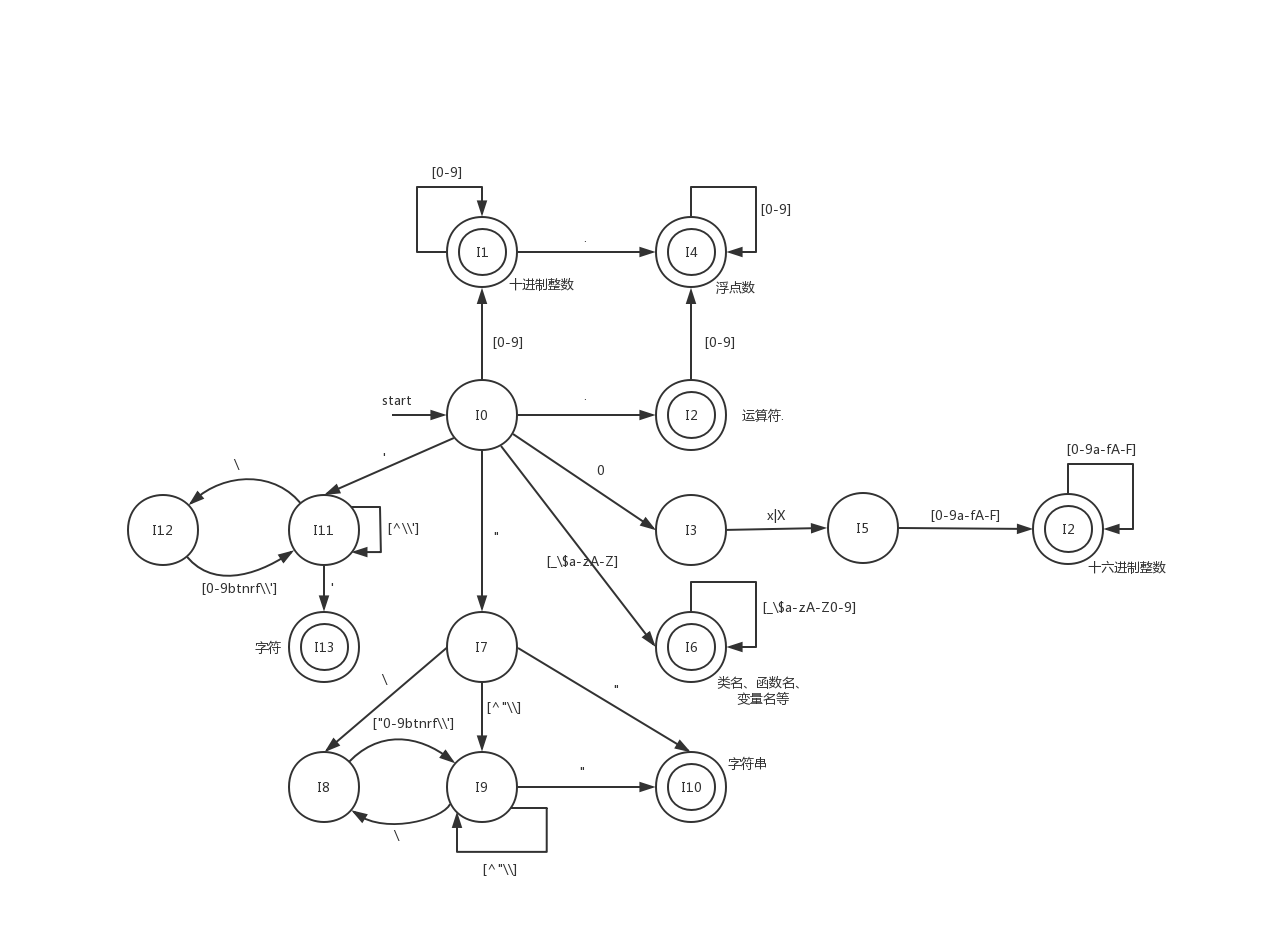
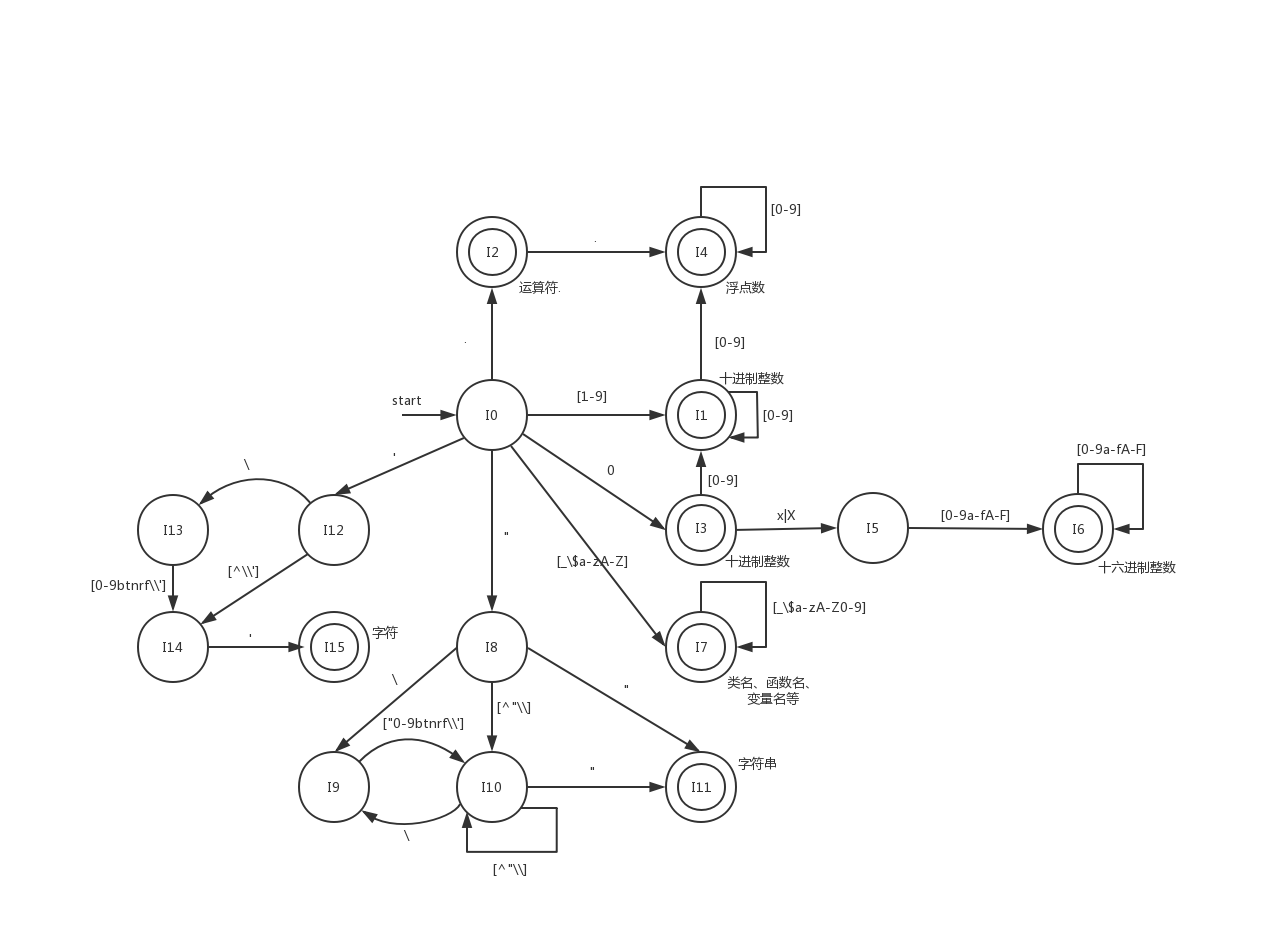
[feature] fix some bugs in draft.md and finish DFAImpl

diff --git a/lab1/src/main/java/model/dfa/DFAImpl.java b/lab1/src/main/java/model/dfa/DFAImpl.java
@@ -1,5 +1,7 @@
 package model.dfa;
 
+import utils.CharUtil;
+
 /**
  * 将NFAs合并后得到的统一的DFAo
  */
@@ -17,7 +19,155 @@ public class DFAImpl implements DFA {
 
     @Override
     public int move(char ch) {
-        switch (this.state){
+        switch (this.state) {
+            case I0:
+                if (ch == '.') {
+                    this.state = State.I2;
+                    return STATE_END;
+                } else if (CharUtil.isDigit(ch) && ch != '0') {
+                    this.state = State.I1;
+                    return STATE_END;
+                } else if (ch == 0) {
+                    this.state = State.I3;
+                    return STATE_NOT_END;
+                } else if (ch == '_' || ch == '$' || CharUtil.isAlphabet(ch)) {
+                    this.state = State.I7;
+                    return STATE_END;
+                } else if (ch == '"') {
+                    this.state = State.I8;
+                    return STATE_NOT_END;
+                } else if (ch == '\'') {
+                    this.state = State.I12;
+                    return STATE_NOT_END;
+                } else {
+                    this.reset();
+                    return STATE_WRONG;
+                }
+            case I1:
+                if (CharUtil.isDigit(ch)) {
+                    this.state = State.I1;
+                    return STATE_END;
+                } else if (ch == '.') {
+                    this.state = State.I4;
+                    return STATE_END;
+                } else {
+                    this.reset();
+                    return TOKEN_DECIMAL;
+                }
+            case I2:
+                if (CharUtil.isDigit(ch)) {
+                    this.state = State.I4;
+                    return STATE_END;
+                } else {
+                    this.reset();
+                    return TOKEN_DOT;
+                }
+            case I3:
+                if (ch == 'X' || ch == 'x') {
+                    this.state = State.I5;
+                    return STATE_NOT_END;
+                } else if (CharUtil.isDigit(ch)) {
+                    this.state = State.I1;
+                    return STATE_END;
+                } else {
+                    this.reset();
+                    return TOKEN_DECIMAL;
+                }
+            case I4:
+                if (CharUtil.isDigit(ch)) {
+                    this.state = State.I4;
+                    return STATE_END;
+                } else {
+                    this.reset();
+                    return TOKEN_FLOAT;
+                }
+            case I5:
+                if (CharUtil.isDigit(ch) || CharUtil.isHexAlpha(ch)) {
+                    this.state = State.I6;
+                    return STATE_END;
+                } else {
+                    this.reset();
+                    return STATE_WRONG;
+                }
+            case I6:
+                if (CharUtil.isDigit(ch) || CharUtil.isHexAlpha(ch)) {
+                    this.state = State.I6;
+                    return STATE_END;
+                } else {
+                    this.reset();
+                    return TOKEN_HEX;
+                }
+            case I7:
+                if (ch == '_' || ch == '$' || CharUtil.isAlphabet(ch) || CharUtil.isDigit(ch)) {
+                    this.state = State.I7;
+                    return STATE_END;
+                } else {
+                    this.reset();
+                    return TOKEN_NAME;
+                }
+            case I8:
+                if (ch == '\\') {
+                    this.state = State.I9;
+                    return STATE_NOT_END;
+                } else if (ch == '"') {
+                    this.state = State.I11;
+                    return STATE_END;
+                } else {
+                    this.state = State.I10;
+                    return STATE_NOT_END;
+                }
+            case I9:
+                if ("btnrf\\'\"".indexOf(ch) >= 0 || CharUtil.isDigit(ch)) {
+                    this.state = State.I10;
+                    return STATE_NOT_END;
+                } else {
+                    this.reset();
+                    return STATE_WRONG;
+                }
+            case I10:
+                if (ch == '"') {
+                    this.state = State.I11;
+                    return STATE_END;
+                } else if (ch == '\\') {
+                    this.state = State.I9;
+                    return STATE_NOT_END;
+                } else {
+                    this.state = State.I10;
+                    return STATE_NOT_END;
+                }
+            case I11:
+                this.reset();
+                return TOKEN_STRING;
+            case I12:
+                if (ch == '\\') {
+                    this.state = State.I13;
+                    return STATE_NOT_END;
+                } else if (ch == '\'') {
+                    this.reset();
+                    return STATE_WRONG;
+                } else {
+                    this.state = State.I14;
+                    return STATE_NOT_END;
+                }
+            case I13:
+                if ("btnrf\\'".indexOf(ch) >= 0 || CharUtil.isDigit(ch)) {
+                    this.state = State.I14;
+                    return STATE_NOT_END;
+                } else {
+                    this.reset();
+                    return STATE_WRONG;
+                }
+            case I14:
+                if (ch=='\''){
+                    this.state = State.I15;
+                    return STATE_END;
+                }else {
+                    this.reset();
+                    return STATE_WRONG;
+                }
+            case I15:
+                this.reset();
+                return TOKEN_CHARACTER;
             default:
                 // would never reach here
                 return -1;
@@ -27,6 +177,6 @@ public class DFAImpl implements DFA {
     private enum State {
         I0, I1, I2, I3, I4,
         I5, I6, I7, I8, I9,
-        I10, I11, I12, I13
+        I10, I11, I12, I13, I14, I15
     }
 }

diff --git a/lab1/src/main/java/model/dfa/DFA.java b/lab1/src/main/java/model/dfa/DFA.java
@@ -1,10 +1,24 @@
 package model.dfa;
 
+import model.Delimiter;
+import model.Operator;
+import model.ReservedWords;
+
 public interface DFA {
     int STATE_WRONG = 0;    // 当前move不能匹配且当前状态为非终态，因此此次匹配异常结束
     int STATE_END = 1;      // 当前move正常进行且后续状态为终态
     int STATE_NOT_END = 2;  // 当前move正常进行且后续状态为非终态
     int STATE_TERMINAL = 3; // 当前move不能匹配且当前状态处于终态，因此此次匹配正常结束
+
+    /* token的catalog编码 */
+    int CATALOG_BASE = Operator.CATALOG_BASE + Delimiter.CATALOG_BASE + ReservedWords.CATALOG_BASE;
+    int TOKEN_DOT = Operator.CATALOG_BASE + Operator.isOperator(".");
+    int TOKEN_DECIMAL = CATALOG_BASE + 1;
+    int TOKEN_HEX = CATALOG_BASE + 2;
+    int TOKEN_FLOAT = CATALOG_BASE + 3;
+    int TOKEN_NAME = CATALOG_BASE + 4;
+    int TOKEN_STRING = CATALOG_BASE + 5;
+    int TOKEN_CHARACTER = CATALOG_BASE + 6;
 
     void reset();
 

diff --git a/lab1/src/main/java/model/Delimiter.java b/lab1/src/main/java/model/Delimiter.java
@@ -1,8 +1,8 @@
 package model;
 
 public class Delimiter {
-    private static int CATALOG_BASE;
-    private static int WRONG_DELIMITER;
+    public static int CATALOG_BASE;
+    public static int WRONG_DELIMITER;
 
     public static final String[] delimiters = {
             "(", ")", "{", "}", "[", "]", ";", ","

diff --git a/docs/lab1/draft.md b/docs/lab1/draft.md
@@ -177,7 +177,7 @@ public class Test{
 
 - 字符
 
-  ![](https://i.loli.net/2019/12/05/7pKhge8lHYVDEBi.jpg)
+  ![](https://i.loli.net/2019/12/06/clG7WkzfMj3QxNL.png)
 
 - 数字
 
@@ -258,9 +258,11 @@ while (charReader.hasNext()) {
   - I4：浮点数
   - I6：十六进制整数
 
+  （**后来发现上面的图还是NFA，修正图如下**）
+
 - 然后将剩余的三个DFA和上面的合并
 
-  ![](https://i.loli.net/2019/12/06/GLnPDd2BqrZp3uh.png)
+  ![](https://i.loli.net/2019/12/06/4DtEhbQINB5OlVe.png)
 
 ## DFA
 
